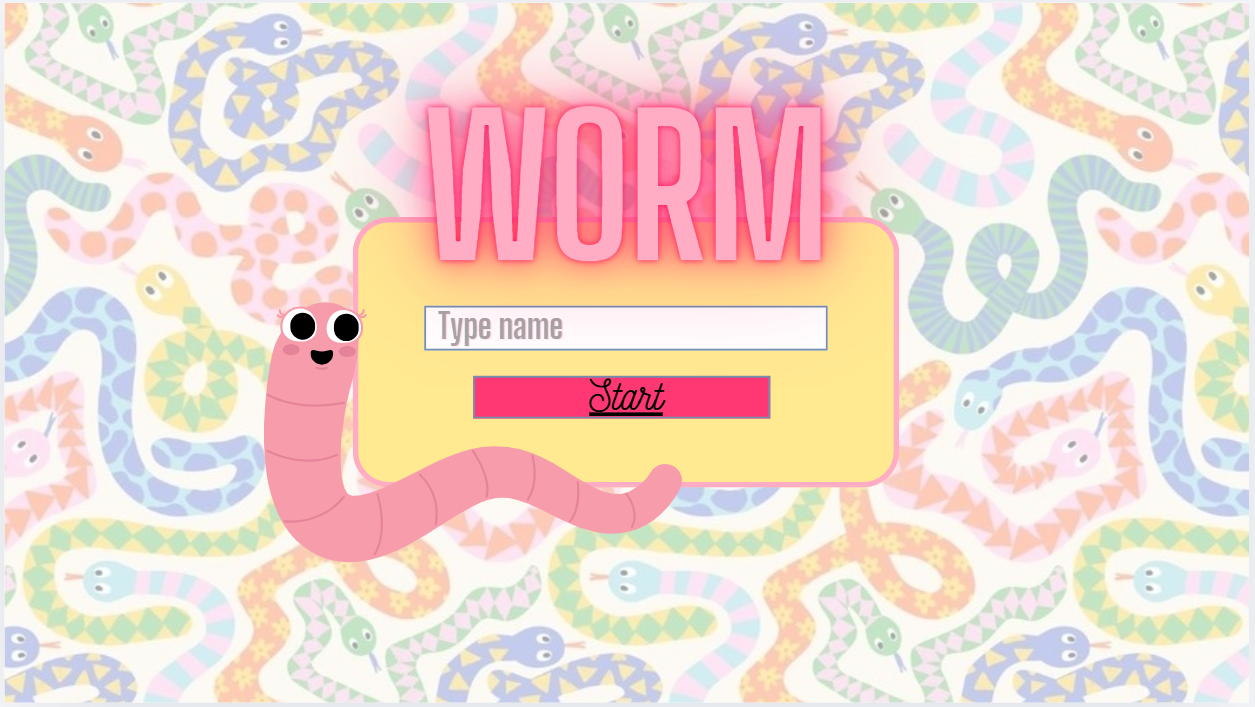
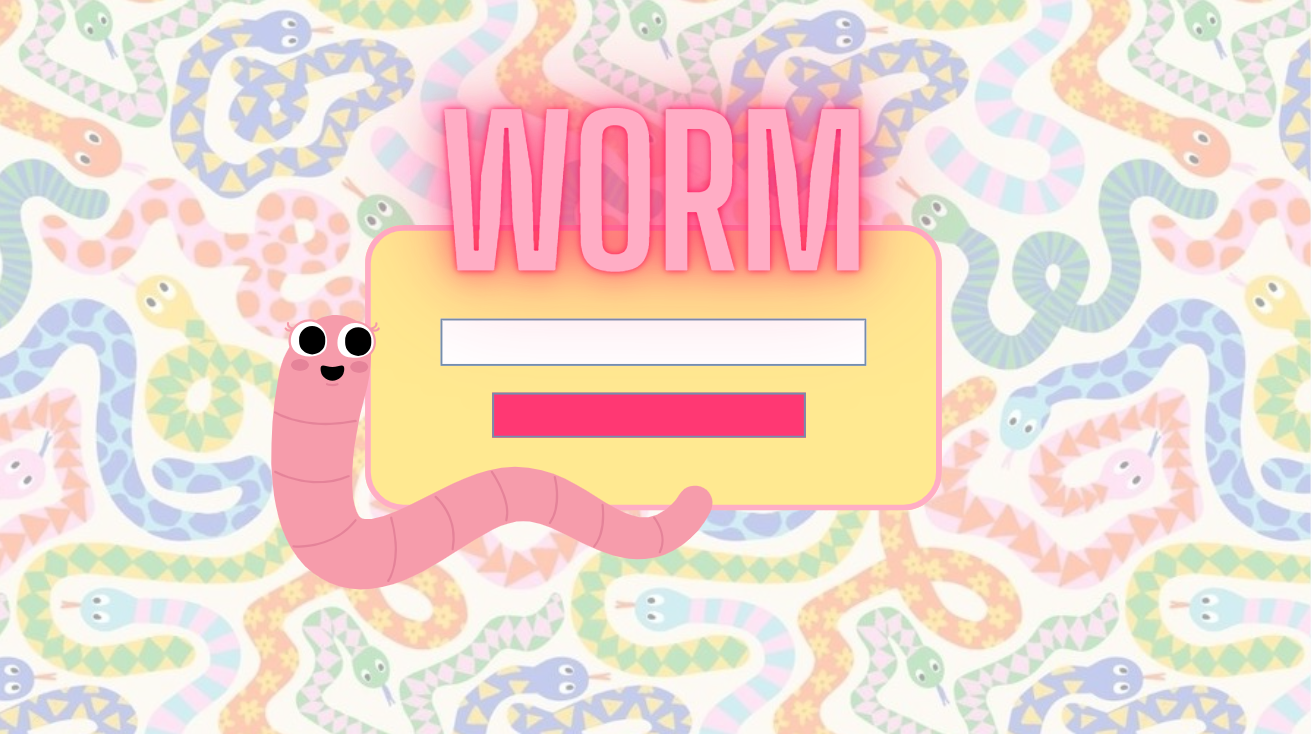
startscherm

diff --git a/worm_resultaat.html b/worm_resultaat.html
@@ -25,8 +25,8 @@
 <body>
     <div class="kaart">
         <h1>Worm-resultaat</h1>
-        <p>Speler: luuk</p>
-        <p>Score: 11</p>
+        <p>Speler: t</p>
+        <p>Score: 7</p>
         <p>Record: 76</p>
     </div>
 </body>

diff --git a/worm.py b/worm.py
@@ -12,7 +12,7 @@ except (FileNotFoundError, ValueError):
 pygame.init()
 
 # Instellingen
-WIDTH = 600
+WIDTH = 1255
 HEIGHT = 600
 CELL = 20
 GRID_W = WIDTH // CELL
@@ -27,7 +27,7 @@ APPLE_GREEN = (50, 205, 50)
 
 screen = pygame.display.set_mode((WIDTH, HEIGHT))
 
-start_foto = pygame.image.load("startscherm.jpg").convert()
+start_foto = pygame.image.load("startscherm.png").convert()
 start_foto = pygame.transform.scale(start_foto, (WIDTH, HEIGHT))
 clock = pygame.time.Clock()
 
@@ -210,10 +210,10 @@ while running:
 
     if game_state == "start":
         screen.blit(start_foto, (0, 0))
-        draw_text("WORM", 72, WIDTH // 2, 150, PINK)
-        draw_text("Typ je naam en druk op Enter", 34, WIDTH // 2, 250)
-        draw_text(naam + "|", 40, WIDTH // 2, 310, WHITE)
-        draw_text("Gebruik de pijltjestoetsen om te bewegen", 28, WIDTH // 2, 390)
+        draw_text("", 72, WIDTH // 2, 150, PINK)
+        draw_text("Typ je naam en druk op Enter", 20, WIDTH // 2, 240)
+        draw_text(naam + "|", 30, WIDTH // 2, 270, WHITE)
+        draw_text("", 28, WIDTH // 2, 390)
 
     elif game_state == "playing":
         if food is not None:
